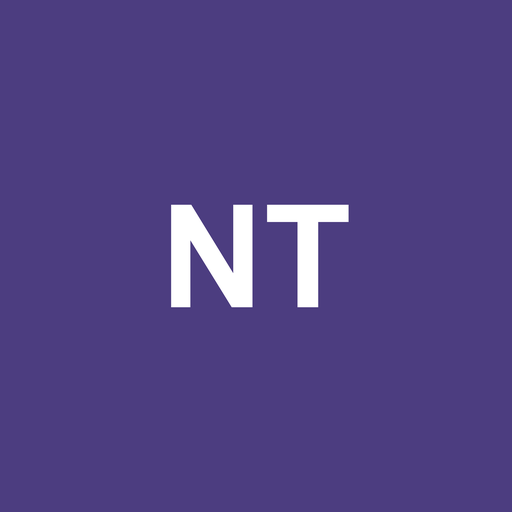
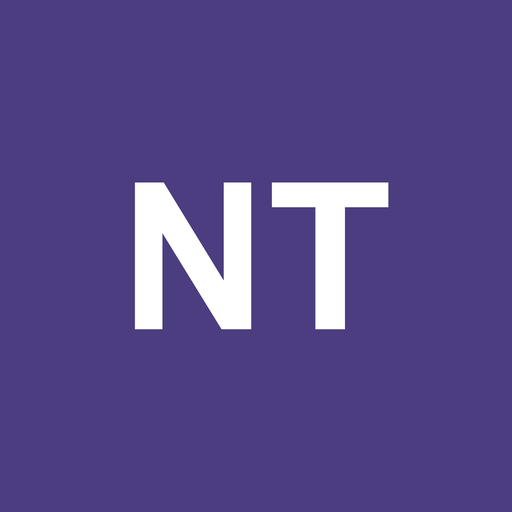
v9.73：切页卡顿优化（汇总页 132→33ms、流水页 268→60ms）+ 图标 NT 放大
用 Chrome Profiler 在 20000 笔数据上定位，三个真正的瓶颈（都不是「笔数多」本身）：

① 汇总统计：每个账户各扫一遍全表
   computeStats 被调用 219 次（73 个账户 × 3），每次遍历全部流水 → 2 万笔时 47ms。
   现在改成 statsMap() 一次性聚合（O(T)），同一次渲染里所有账户查表：
   47ms → 3.4ms。
   同时修掉一个隐藏 bug：区间为空（显示全部）时，旧代码把所有带日期的流水都当成
   「区间之后」跳过，结余只算了无日期流水。现在是正确口径（全部累计）。

② 冻结列的 left：每次渲染逐格写 style
   applySummarySticky 原来对表头 + 全部数据行（约 1100 格）逐个 cell.style.left = …
   还要 getBoundingClientRect 取序号列宽（对上千格的表做一次强制布局 30ms+）。
   现在只写一个 CSS 变量 --summary-seq-w，left 由 CSS 计算，零测量、零逐格写。

③ 流水页一次画 1000 行
   FLOW_BATCH 1000 → 300。首屏 300 行，底部「加载更多」照旧追加。
   流水页渲染 268ms → 60ms（2 万笔数据）。

实测（20000 笔，桌面 Chrome）：
   汇总页 132ms → 33ms，流水页 268ms → 60ms，分类页 66ms 不变
   4 倍 CPU 降速 + 390px 宽（模拟中低端手机）：汇总页约 160ms、流水页约 270ms
   汇总页耗时现在与流水条数基本无关（73 个账户 × 15 列的 DOM 是固定成本）

④ 图标：maskable 版的 NT 放大到与普通图标同比例（原来缩到 0.28，看着太小）

验证：新旧统计算法在 4 个区间上逐账户逐项完全一致；冻结列默认 52px、
  横向滚动后仍固定、改列宽后 left 跟随；回归 UI 50、折叠 21、同步排版 16、
  标签样式 10、冻结列 8、表头配色 7、统计 5 全过。
版本 v9.73，SW v179。

Changed region(s): [[0.25, 0.3438, 0.7812, 0.6562]]

diff --git a/sw.js b/sw.js
@@ -1,7 +1,7 @@
 /* NT账本 · Service Worker
    策略：网络优先（在线时永远拿最新版本），失败再回退缓存 —— 断网也能打开。
    改了 index.html 只需重新上传，用户下次联网打开就会自动更新。 */
-const CACHE = 'ledger-v178';
+const CACHE = 'ledger-v179';
 const ASSETS = ['./', './index.html', './manifest.json',
   './nt-192.png', './nt-512.png',
   './nt-maskable-192.png', './nt-maskable-512.png',

diff --git a/README.md b/README.md
@@ -2,7 +2,7 @@
 
 个人复式流水账本。纯单文件前端应用，零依赖、零后端，数据完全存在浏览器本地并加密。
 
-> 当前版本：**v9.72**
+> 当前版本：**v9.73**
 
 ## 在线使用
 
